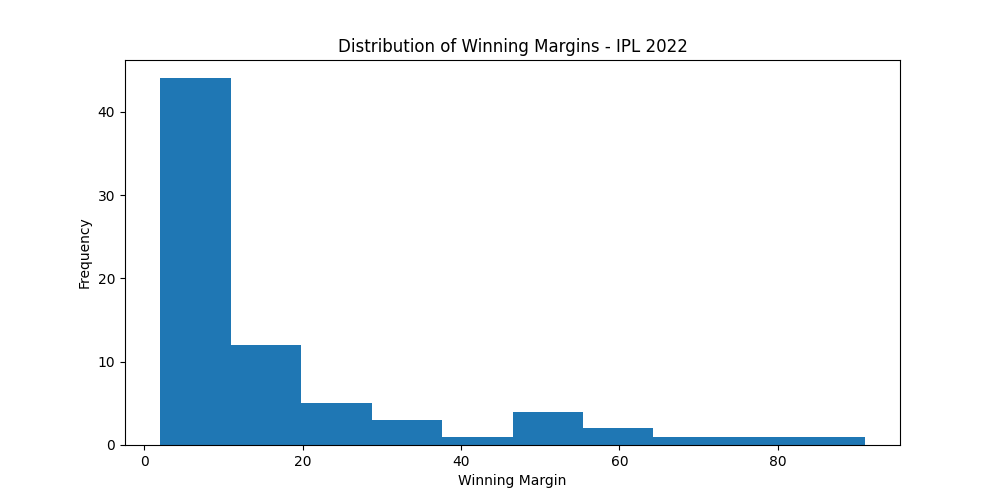
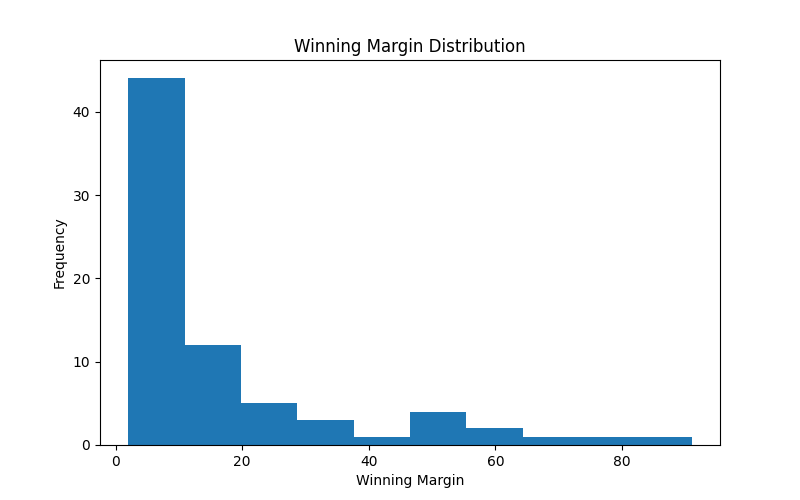
Improved clean code structure

diff --git a/analysis.py b/analysis.py
@@ -1,14 +1,112 @@
 import pandas as pd
 import matplotlib.pyplot as plt
 
-# Load dataset
+# =====================================
+# LOAD DATASET
+# =====================================
+
 matches = pd.read_csv("IPL_Matches_2022.csv")
-# Select numerical columns
-correlation = matches[
-    ["Margin"]
-].corr()
 
-# Print correlation matrix
-print("Correlation Analysis:\n")
+# =====================================
+# BASIC INFORMATION
+# =====================================
 
-print(correlation)
+print("\nTotal IPL Matches Played:")
+print(len(matches))
+
+# =====================================
+# TEAM WINS ANALYSIS
+# =====================================
+
+team_wins = matches["WinningTeam"].value_counts()
+
+print("\nMost Successful IPL Teams:\n")
+print(team_wins)
+
+# Create bar chart
+plt.figure(figsize=(10, 5))
+
+team_wins.plot(kind="bar")
+
+plt.title("IPL 2022 Team Wins")
+plt.xlabel("Teams")
+plt.ylabel("Number of Wins")
+
+plt.xticks(rotation=45)
+
+# Save chart
+plt.savefig("charts/team_wins.png")
+
+plt.show()
+
+# =====================================
+# TOSS DECISION ANALYSIS
+# =====================================
+
+toss_decision = matches["TossDecision"].value_counts()
+
+print("\nToss Decisions:\n")
+print(toss_decision)
+
+# Pie chart
+plt.figure(figsize=(6, 6))
+
+toss_decision.plot(
+    kind="pie",
+    autopct="%1.1f%%"
+)
+
+plt.title("Toss Decision Analysis")
+
+plt.ylabel("")
+
+plt.savefig("charts/toss_decision_pie.png")
+
+plt.show()
+
+# =====================================
+# VENUE ANALYSIS
+# =====================================
+
+venue_matches = matches["Venue"].value_counts().head(10)
+
+print("\nTop Venues:\n")
+print(venue_matches)
+
+plt.figure(figsize=(10, 5))
+
+venue_matches.plot(kind="bar")
+
+plt.title("Top IPL Venues")
+plt.xlabel("Venue")
+plt.ylabel("Matches Hosted")
+
+plt.xticks(rotation=75)
+
+plt.savefig("charts/venue_analysis.png")
+
+plt.show()
+
+# =====================================
+# WINNING MARGIN ANALYSIS
+# =====================================
+
+margin = matches["Margin"]
+
+plt.figure(figsize=(8, 5))
+
+plt.hist(margin, bins=10)
+
+plt.title("Winning Margin Distribution")
+plt.xlabel("Winning Margin")
+plt.ylabel("Frequency")
+
+plt.savefig("charts/winning_margin_histogram.png")
+
+plt.show()
+
+# =====================================
+# PROJECT COMPLETED
+# =====================================
+
+print("\nIPL Data Analysis Completed Successfully!")